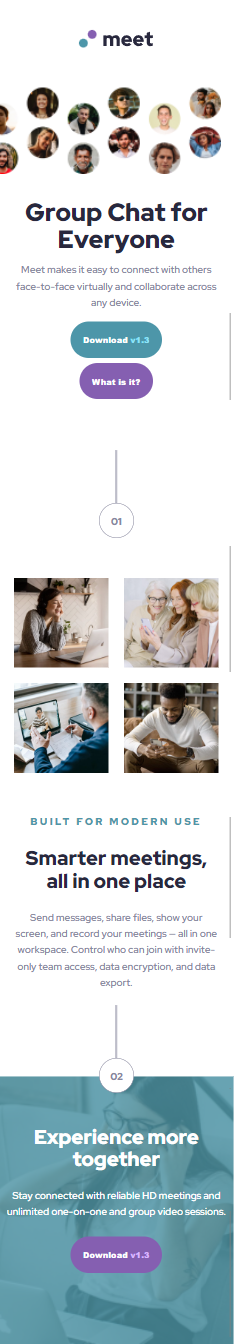
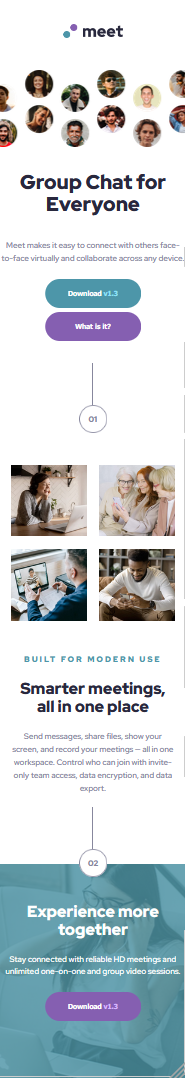
final changes

diff --git a/css/styles.css b/css/styles.css
@@ -19,22 +19,8 @@ body {
   margin: 0;
 
   min-width: 375px;
-  max-width: 100%;
-  /* max-width: 1440px; */
+  max-width: 1440px;
 
-}
-
-@media screen and (min-width: 600px) {
-  html,
-  body {
-    /* max-width: 768px; */
-  }
-}
-
-@media screen and (min-width: 992px) {
-  html,
-  body {
-  }
 }
 
 figure,
@@ -69,10 +55,6 @@ h1 {
     font-size: 64px;
   }
 }
-
-/* h1.masthead-box {
-  padding-top: 48px;
-} */
 
 h2 {
   font-size: 32px;
@@ -153,18 +135,6 @@ p {
 
 }
 
-/* @media screen and (min-width: 600px) {
-  .masthead-box {
-    display: grid;
-    grid-template-columns: 1fr 1fr;
-    grid-template-rows: auto auto;
-    grid-template-areas:
-      "hero-left hero-right"
-      "main main";
-    justify-items: center;
-  }
-} */
-
 @media screen and (min-width: 600px) {
   .masthead-box {
     width: calc(100% + 3.25rem);  /* to spread / shift 26px*/
@@ -183,39 +153,20 @@ p {
   }
 }
 
-
 .masthead-left {
   position: relative;
 }
 
-/* @media screen and (min-width: 600px) {
-  .masthead-left {
-  grid-area: hero-left;
-
-    left: -26px;
-  }
-} */
-
 @media screen and (min-width: 992px) {
   .masthead-left {
     grid-area: hero-left;
-    /* left: -32px; */
     top: 0px;
   }
 }
 
 .masthead-right {
-  /* grid-area: hero-right; */
-  /* position: relative; */
   display: none;
 }
-
-/* @media screen and (min-width: 600px) {
-  .masthead-right {
-    display: block;
-    right: -26px;
-  }
-} */
 
 @media screen and (min-width: 992px) {
   .masthead-right {
@@ -234,7 +185,6 @@ p {
 @media screen and (min-width: 600px) {
   .masthead-main-text {
     margin: 0 9.5rem 0 9.5rem;
-    /* height: 262px; */
   }
 }
 
@@ -243,7 +193,6 @@ p {
     grid-area: main;
 
     margin: 0;
-    /* height: 358px; */
   }
 }
 
@@ -407,11 +356,6 @@ img.woman-working-pic {
   position: relative;
 }
 
-/* @media screen and (min-width: 600px) {
-  .footer-pic-box {
-    margin: 0 97px;
-  }
-} */
 .desc-02 {
   position: absolute;
   top: 64px;

diff --git a/index.html b/index.html
@@ -16,9 +16,9 @@
 </head>
 <body>
     <main class="main-container">
-
-      <img class="logo" src="assets/logo.svg" alt="Meet Logo" style="width:119px;height:28px;">
       
+      <img class="logo" src="assets/logo.svg" alt="Meet Logo" style="width:119px;height:28px;">
+      <!-- Top section including Hero image -->
       <section class="masthead-box">
         <picture>
           <source media="(min-width:992px)" srcset="assets/desktop/image-hero-left.png">
@@ -40,7 +40,7 @@
           </div>
         </div>
       </section>
-      
+      <!-- Mid section with Reason 1 and picture of 4 people working -->
       <section>
         <figure class="reason01">
           <div class="vertical-line"></div>
@@ -63,7 +63,7 @@
       </section>
 
     </main>
-
+    <!-- Footer section with Reason2 and more text with background -->
     <footer>
       <figure class="reason02"style="margin: 24px 24px -26px 24px">
         <div class="vertical-line"></div>

diff --git a/README.md b/README.md
@@ -1,88 +1,79 @@
-# Frontend Mentor - Meet landing page
+# Frontend Mentor - Meet landing page solution
 
-![Design preview for the Meet landing page coding challenge](./preview.jpg)
+This is a solution to the [Meet landing page challenge on Frontend Mentor](https://www.frontendmentor.io/challenges/meet-landing-page-rbTDS6OUR). Frontend Mentor challenges help you improve your coding skills by building realistic projects.
 
-## Welcome! 👋
+## Table of contents
 
-Thanks for purchasing this premium Frontend Mentor coding challenge.
+- [Overview](#overview)
+  - [The challenge](#the-challenge)
+  - [Screenshot](#screenshot)
+  - [Links](#links)
+- [My process](#my-process)
+  - [Built with](#built-with)
+  - [What I learned](#what-i-learned)
+  - [Continued development](#continued-development)
+  - [Useful resources](#useful-resources)
+- [Author](#author)
+- [Acknowledgments](#acknowledgments)
 
-[Frontend Mentor](https://www.frontendmentor.io) challenges help you improve your coding skills by building realistic projects. These premium challenges are perfect portfolio pieces, so please feel free to use what you create in your portfolio to show others.
+**Note: Delete this note and update the table of contents based on what sections you keep.**
 
-**To do this challenge, you need a decent understanding of HTML & CSS.**
+## Overview
 
-## The challenge
+### The challenge
 
-Your challenge is to build out this landing page and get it looking as close to the design as possible.
-
-You can use any tools you like to help you complete the challenge. So if you've got something you'd like to practice, feel free to give it a go.
-
-Your users should be able to:
+Users should be able to:
 
 - View the optimal layout depending on their device's screen size
 - See hover states for interactive elements
 
-Want some support on the challenge? [Join our Slack community](https://www.frontendmentor.io/slack) and ask questions in the **#help** channel.
+### Screenshot
 
-## Where to find everything
+![screenshot-mobile.png]
+![screenshot-tablet.png]
+![screenshot-desktop.png]
 
-Your task is to build out the project to the design file provided. We provide both Sketch and Figma versions of the design, so you can choose which tool you prefer to use. You can download the design file on the platform. **Please be sure not to share them with anyone else.** The design download comes with a `README.md` file as well to help you get set up.
+A
 
-All the required assets for this project are in the `/assets` folder. The assets are already exported for the correct screen size and optimized. Some images are reusable at multiple screen sizes. So if you don't see an image in a specific folder, it will typically be in another folder for that page.
+### Links
 
-The design system in the design file will give you more information about the various colors, fonts, and styles used in this project.
+- Solution URL: [https://github.com/dsoluk/meet-landing-page]
+- Live Site URL: [https://dsoluk.github.io/meet-landing-page/]
 
-## Building your project
+## My process
 
-Feel free to use any workflow that you feel comfortable with. Below is a suggested process, but do not feel like you need to follow these steps:
+### Built with
 
-1. Separate the `starter-code` from the rest of this project and rename it to something meaningful for you. Initialize the codebase as a public repository on [GitHub](https://github.com/). Creating a repo will make it easier to share your code with the community if you need help. If you're not sure how to do this, [have a read-through of this Try Git resource](https://try.github.io/). **⚠ IMPORTANT ⚠: There are already a couple of `.gitignore` files in this project. Please do not remove them or change the content of the files. If you create a brand new project, please use the `.gitignore` files provided in your new codebase. This is to avoid the accidental upload of the design files to GitHub. With these premium challenges, please be sure not to share the design files in your GitHub repo. Thanks!**
-2. Configure your repository to publish your code to a web address. This will also be useful if you need some help during a challenge as you can share the URL for your project with your repo URL. There are a number of ways to do this, and we provide some recommendations below.
-3. Look through the designs to start planning out how you'll tackle the project. This step is crucial to help you think ahead for CSS classes to create reusable styles.
-4. Before adding any styles, structure your content with HTML. Writing your HTML first can help focus your attention on creating well-structured content.
-5. Write out the base styles for your project, including general content styles, such as `font-family` and `font-size`.
-6. Start adding styles to the top of the page and work down. Only move on to the next section once you're happy you've completed the area you're working on.
+- Semantic HTML5 markup
+- CSS custom properties
+- Flexbox
+- CSS Grid
+- Mobile-first workflow
+- pseudo element : hover for buttons
+- picture tag to pull in image sources based on device width
 
-## Deploying your project
+### What I learned
 
-As mentioned above, there are many ways to host your project for free. Our recommend hosts are:
+Things I did differently on this challenge:
 
-- [GitHub Pages](https://pages.github.com/)
-- [Vercel](https://vercel.com/)
-- [Netlify](https://www.netlify.com/)
+- put basic styles (e.g. margin, color) for various elements in the element rather than styles.css file...curious if this good practice? Ended up pulling most of these out as became a pain as I added media queries.
+- used flexbox for centering images and text
+- used picture elements to load certain images based on device...thinking this should be based on viewport rather than device?
 
-You can host your site using one of these solutions or any of our other trusted providers. [Read more about our recommended and trusted hosts](https://medium.com/frontend-mentor/frontend-mentor-trusted-hosting-providers-bf000dfebe).
+### Continued development
 
-## Create a custom `README.md`
+Struggled with amount of time to get this done as had to re-work as I added media queries. I'm thinking I need to come with a method so started looking into CUBE. Need to look at others as well.
 
-We strongly recommend overwriting this `README.md` with a custom one. We've provided a template inside the [`README-template.md`](./README-template.md) file in this starter code.
+Overthought a couple of image placement issues but forced me to learn image placement techniques.
 
-The template provides a guide for what to add. A custom `README` will help you explain your project and reflect on your learnings. Please feel free to edit our template as much as you like.
+### Useful resources
 
-Once you've added your information to the template, delete this file and rename the `README-template.md` file to `README.md`. That will make it show up as your repository's README file.
+Tend to use LinkedIn Learning for learning new techniques. And W3 schools is quite good.
 
-## Submitting your solution
+## Author
 
-Submit your solution on the platform for the rest of the community to see. Follow our ["Complete guide to submitting solutions"](https://medium.com/frontend-mentor/a-complete-guide-to-submitting-solutions-on-frontend-mentor-ac6384162248) for tips on how to do this.
+- Frontend Mentor - [@DSoluk]
 
-Remember, if you're looking for feedback on your solution, be sure to ask questions when submitting it. The more specific and detailed you are with your questions, the higher the chance you'll get valuable feedback from the community.
+## Acknowledgments
 
-**⚠ IMPORTANT ⚠: With these premium challenges, please be sure not to upload the design files to GitHub when you're submitting to the platform and sharing it around. If you've created a brand new project, the easiest way to do that is to copy across the `.gitignore` provided in this starter project.**
-
-## Sharing your solution
-
-There are multiple places you can share your solution:
-
-1. Share your solution page in the **#finished-projects** channel of the [Slack community](https://www.frontendmentor.io/slack). 
-2. Tweet [@frontendmentor](https://twitter.com/frontendmentor) and mention **@frontendmentor**, including the repo and live URLs in the tweet. We'd love to take a look at what you've built and help share it around.
-3. Share your solution on other social channels like LinkedIn.
-4. Blog about your experience building your project. Writing about your workflow, technical choices, and talking through your code is a brilliant way to reinforce what you've learned. Great platforms to write on are [dev.to](https://dev.to/), [Hashnode](https://hashnode.com/), and [CodeNewbie](https://community.codenewbie.org/).
-
-We provide templates to help you share your solution once you've submitted it on the platform. Please do edit them and include specific questions when you're looking for feedback. 
-
-The more specific you are with your questions the more likely it is that another member of the community will give you feedback.
-
-## Got feedback for us?
-
-We love receiving feedback! We're always looking to improve our challenges and our platform. So if you have anything you'd like to mention, please email hi[at]frontendmentor[dot]io.
-
-**Have fun building!** 🚀
+Thankful for the opportunity to do this challenge. Practice makes perfect.
